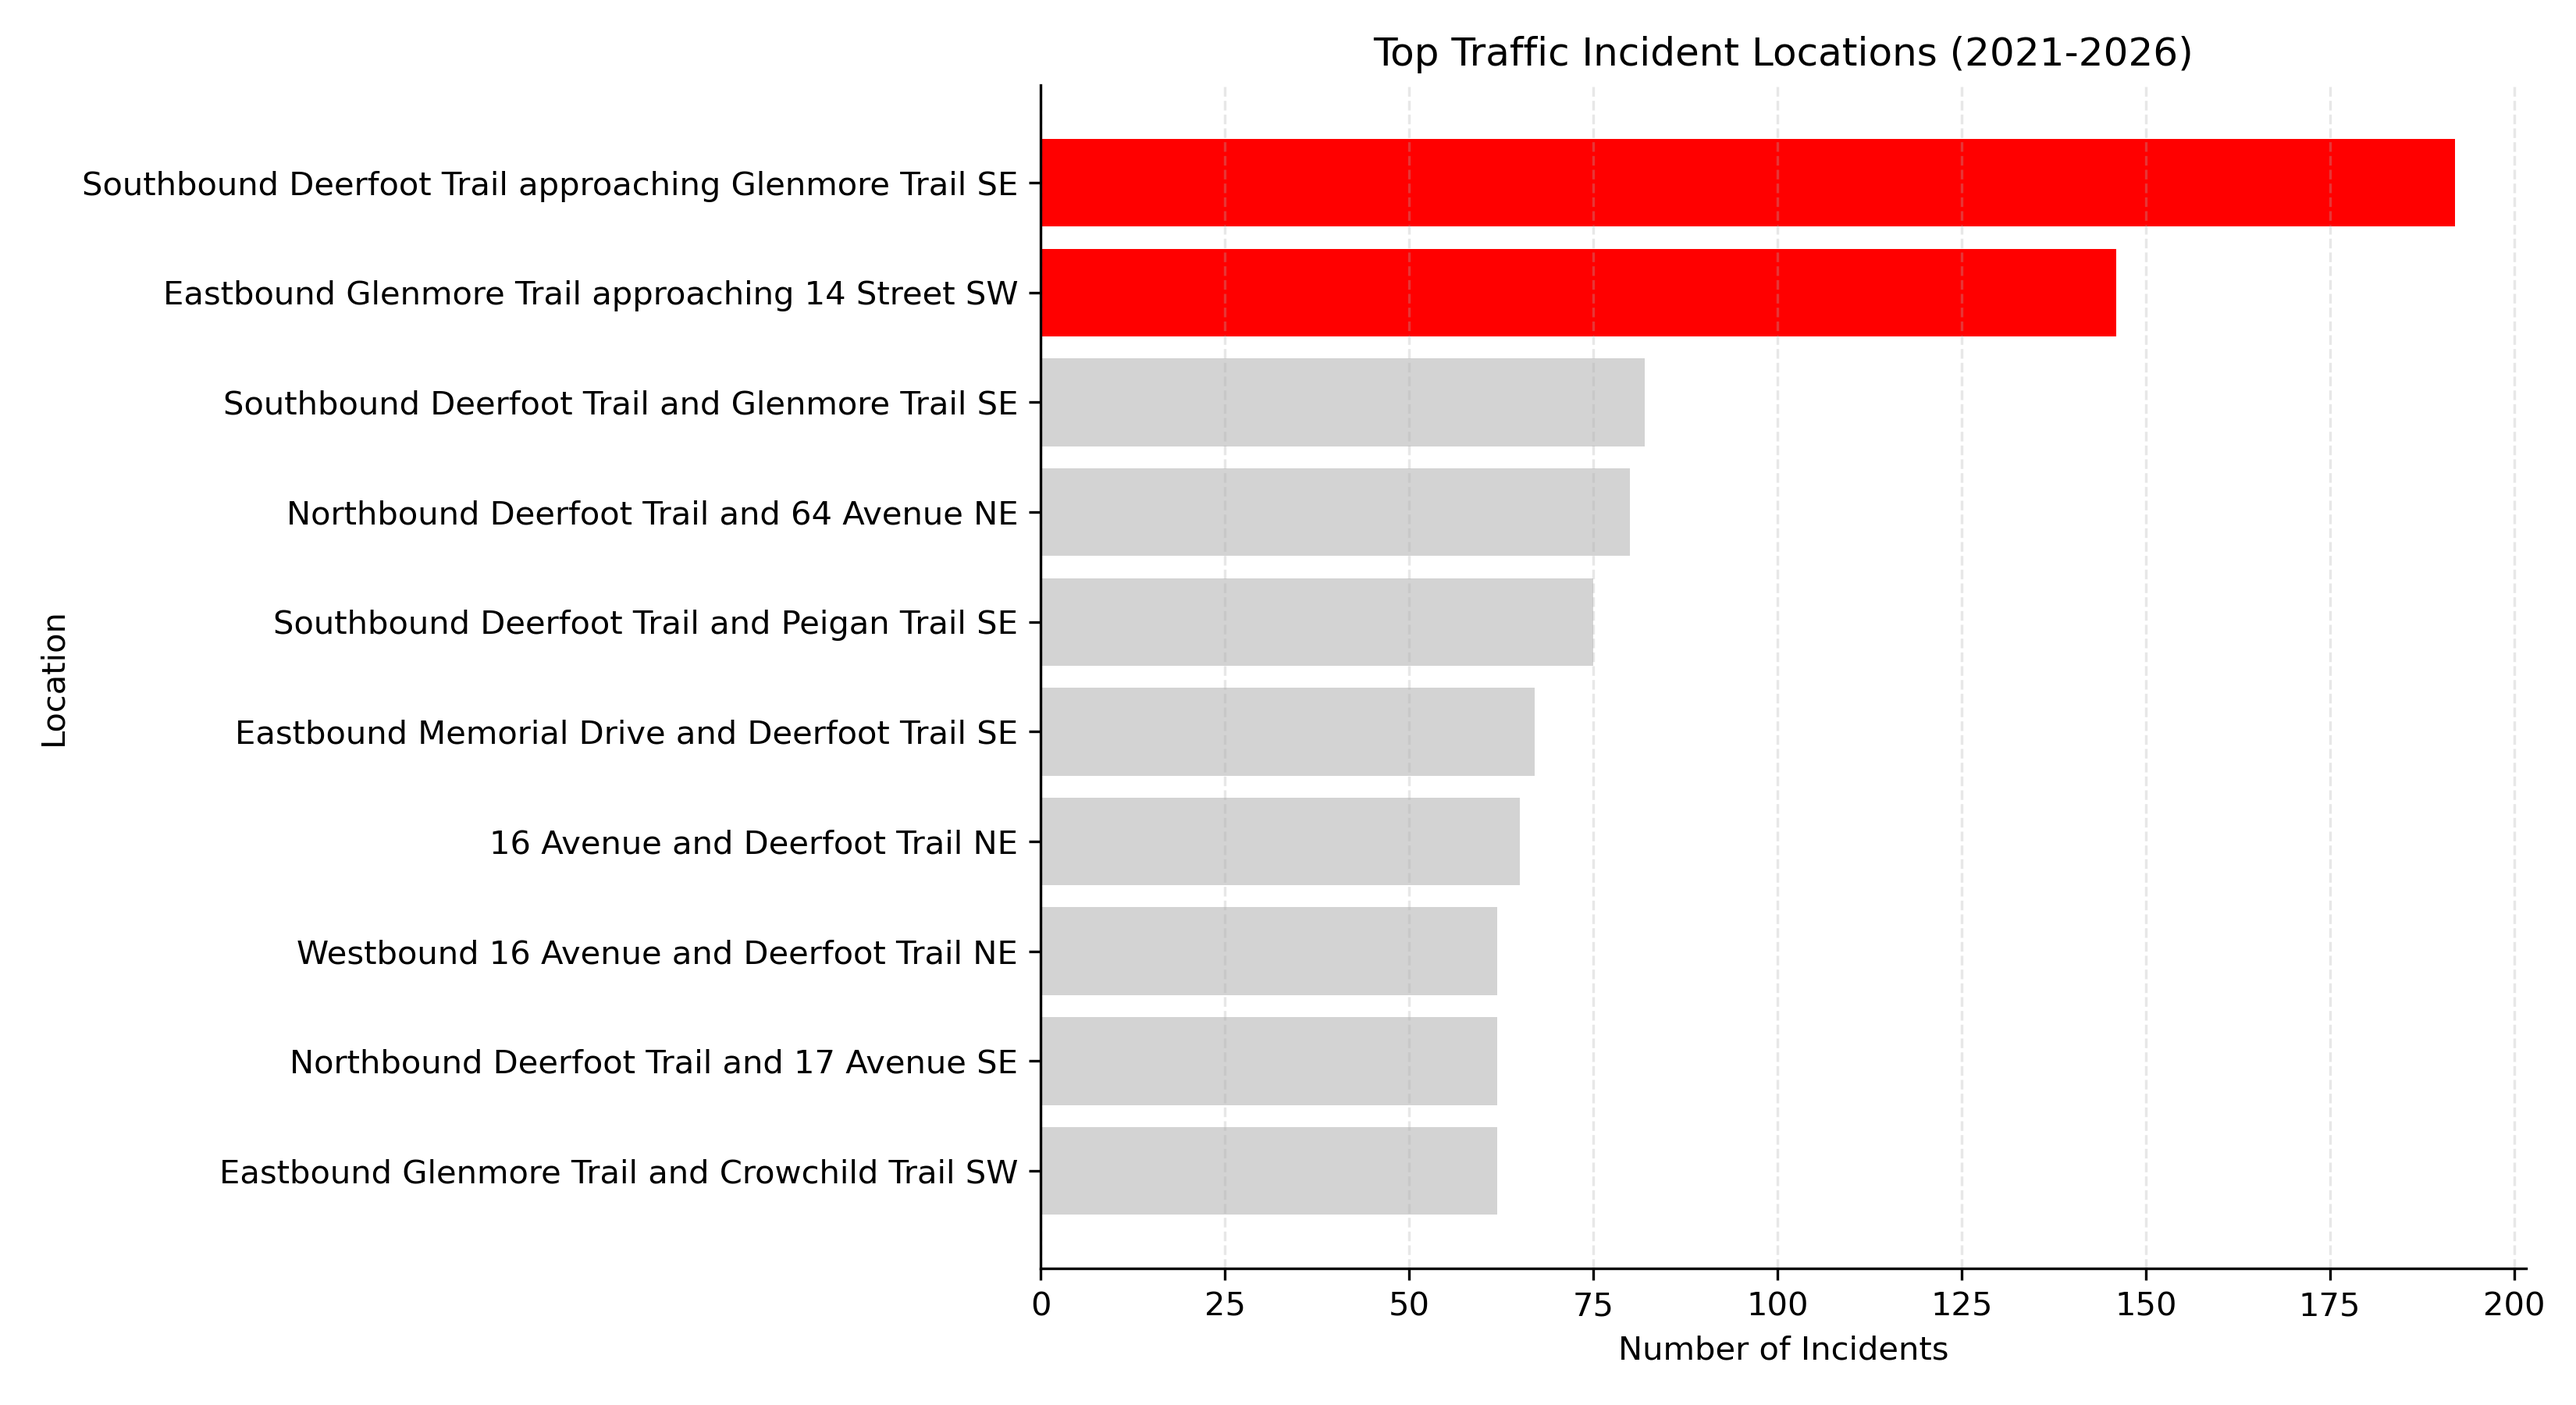
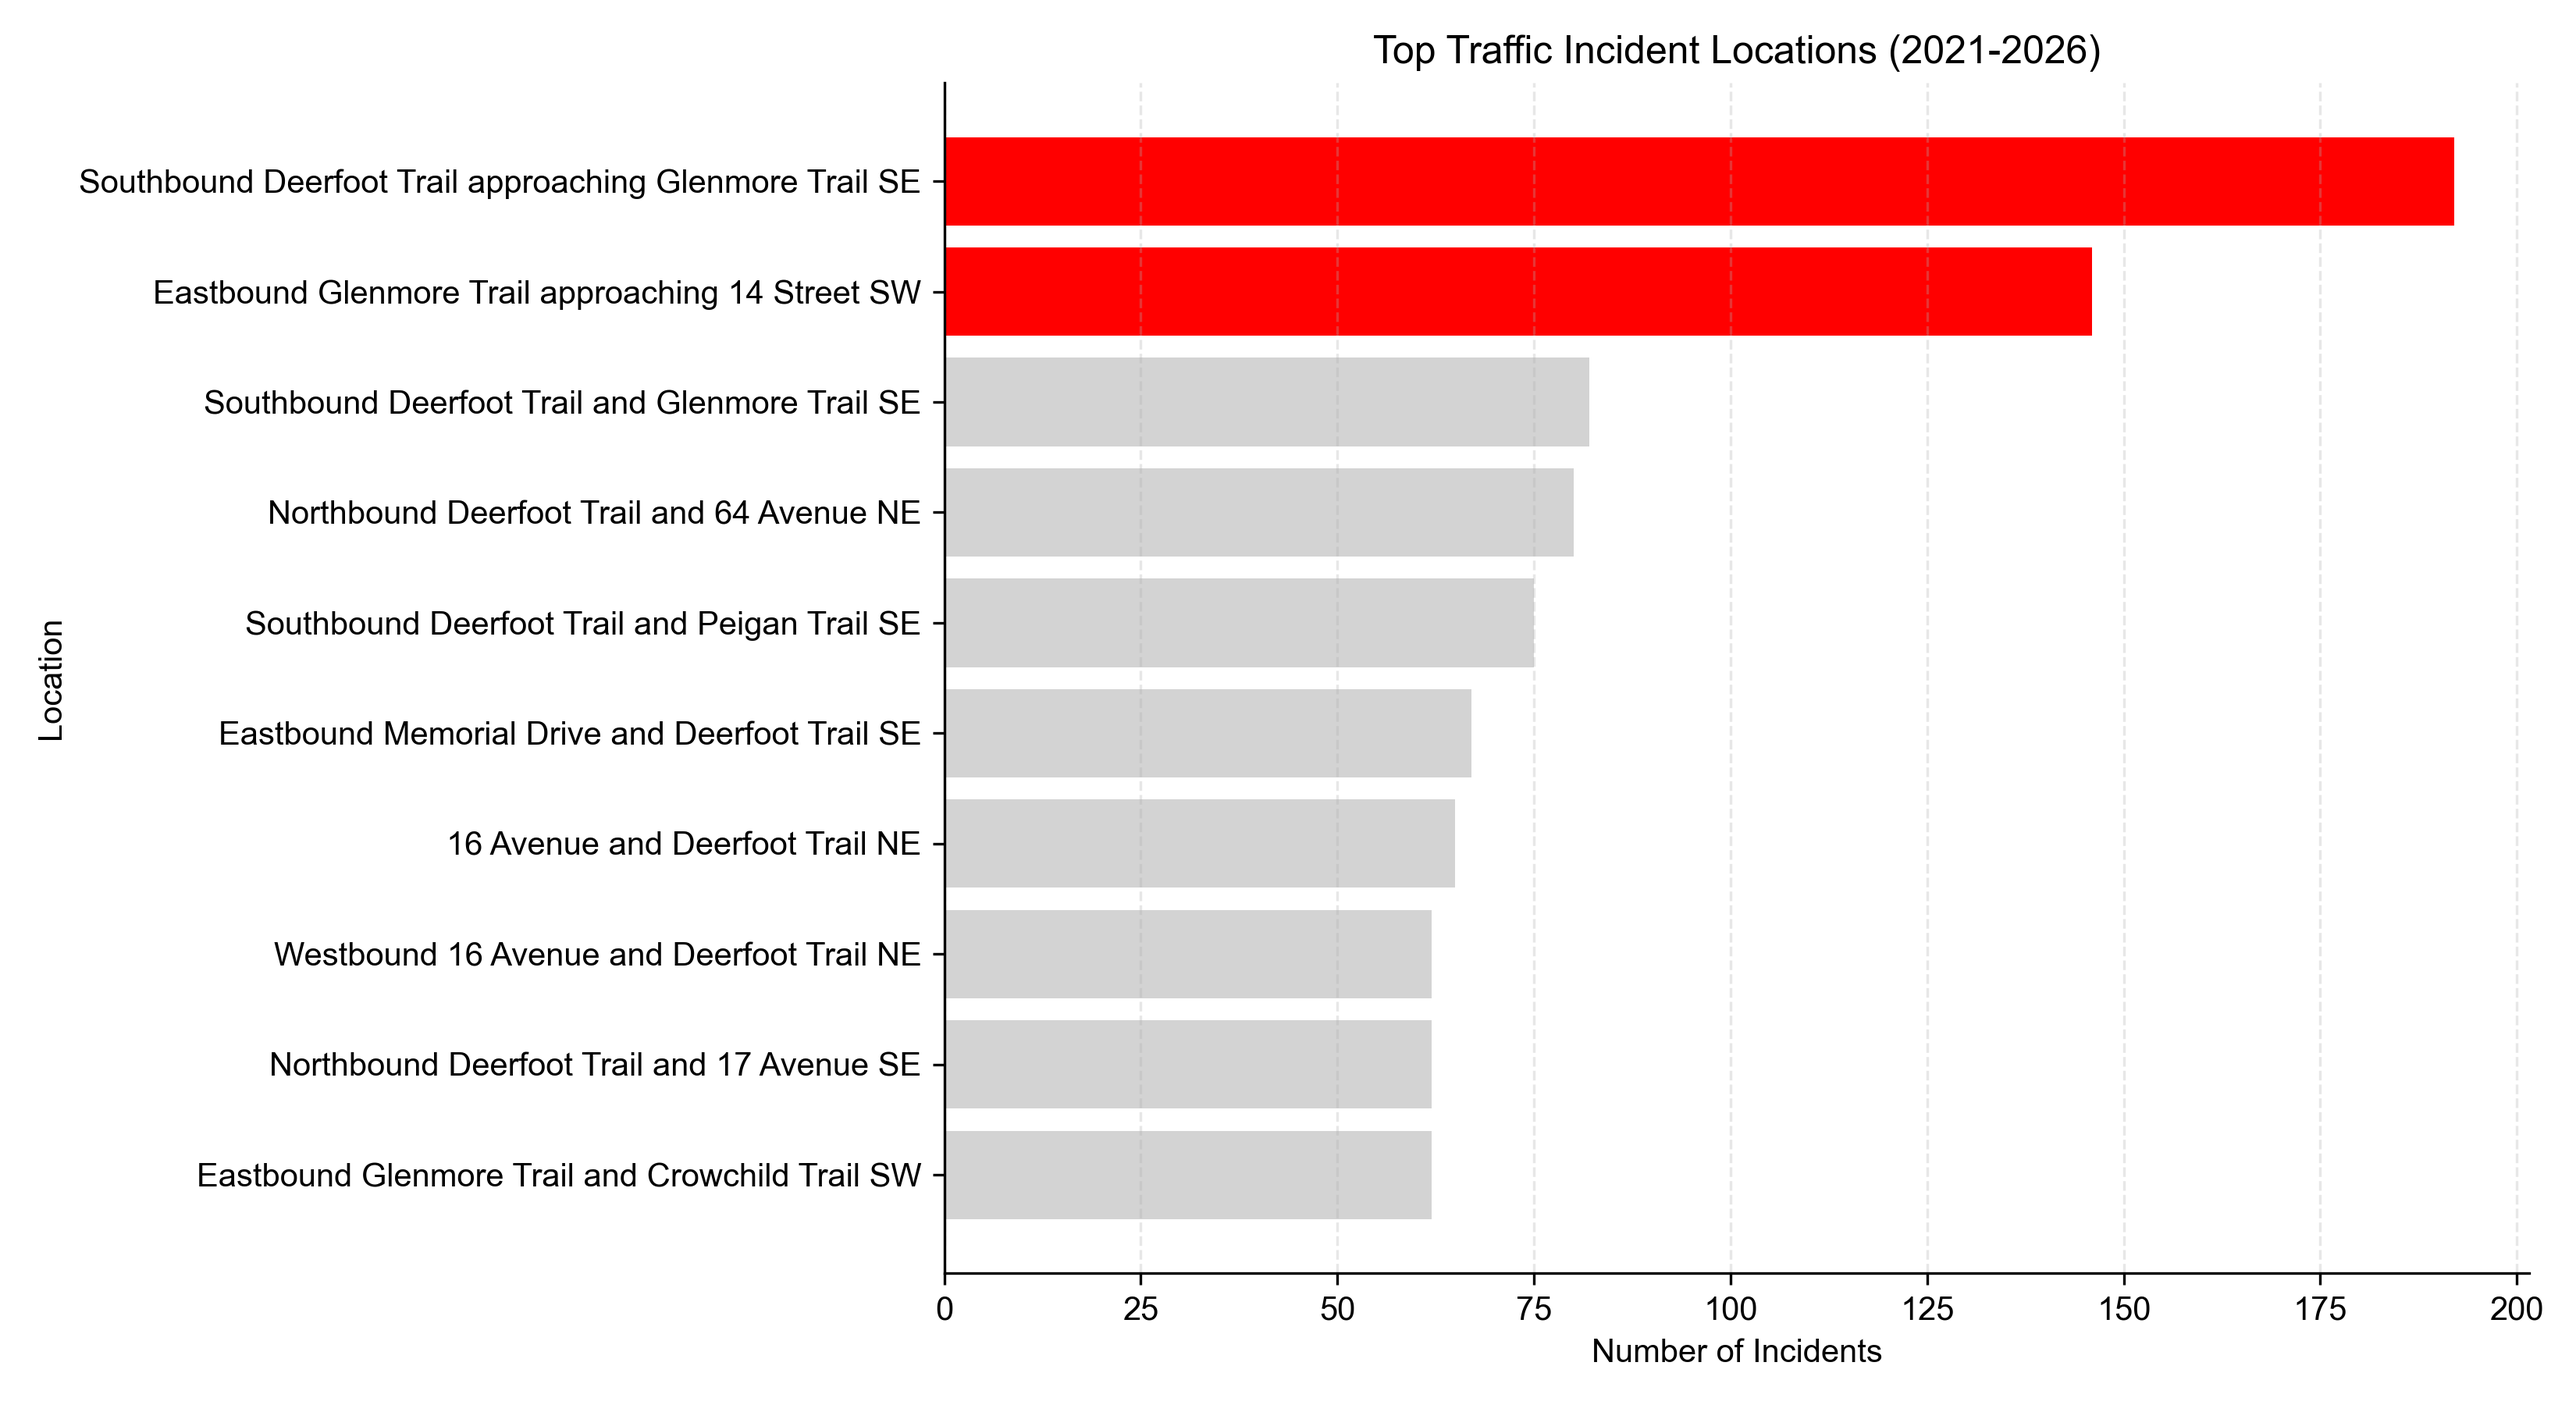
fixed top_int

diff --git a/top_intersections.py b/top_intersections.py
@@ -3,6 +3,8 @@ import matplotlib.pyplot as plt
 import seaborn as sns
 
 print("Plot starting...")
+plt.rcParams["font.family"] = "Arial"
+
 # Load CLEAN dataset
 df = pd.read_csv("Traffic_Incidents_filtered_2020.csv")
 
